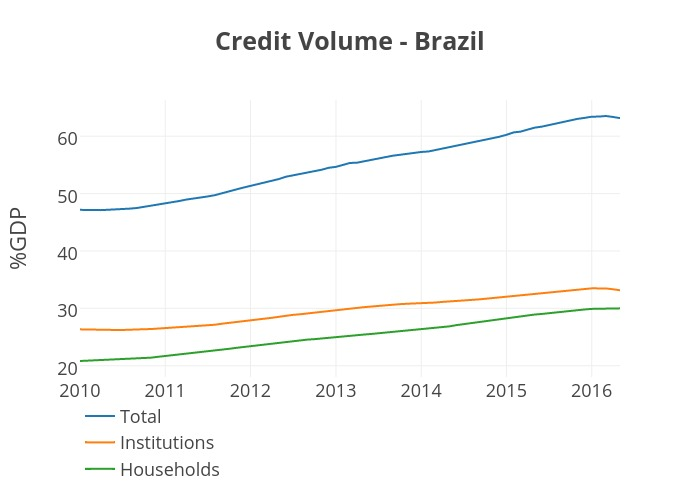
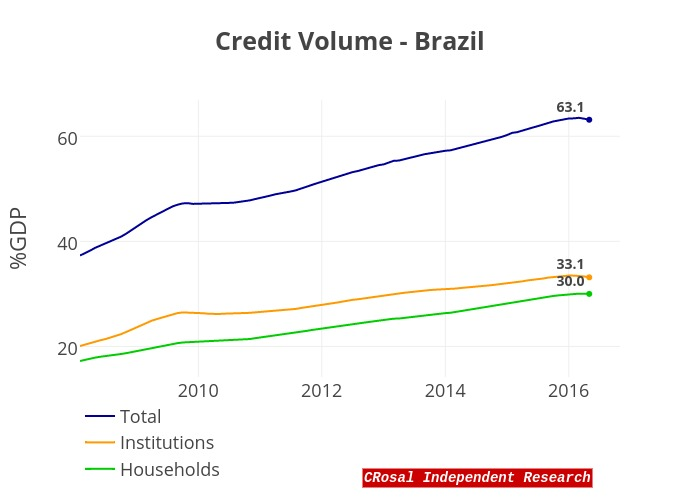
add decoration to charts

diff --git a/credit_brazil/credit_volume.py b/credit_brazil/credit_volume.py
@@ -12,22 +12,56 @@ df_12m = df.rolling(window=12).sum().dropna()
 df_gdp = df_12m.div(df_12m['GDP'], axis=0).iloc[:,1:]*10
 
 
-def credit_volume(df_gdp, new_date, title):
-    df_gdp_new = df_gdp[df_gdp.index >= new_date]
-    names = df_gdp.columns
-    ## volume
-    trace01 = go.Scatter(x=df_gdp_new.index, y=df_gdp_new['Total'],
-                         name=names[0])
-    trace02 = go.Scatter(x=df_gdp_new.index, y=df_gdp_new['Institutions'],
-                         name=names[1])
-    trace03 = go.Scatter(x=df_gdp_new.index, y=df_gdp_new['Households'],
-                         name=names[2])
-    data0 = [trace01, trace02, trace03]
-    layout0 = go.Layout(title="<b>{}</b>".format(title),
-                        yaxis=dict(title="%GDP", tickmode="auto", nticks=5),
-                        font=dict(size=18),
-                        legend=dict(x=0, y=-0.4))
-    return go.Figure(data=data0, layout=layout0)
 
-py.image.save_as(credit_volume(df_gdp, "2010-01-01", "Credit Volume - Brazil" ),
+def gen_chart(df, title, y_title, date_ini, source=True):
+    df_final = df[df.index >= date_ini]
+    col = ["#000099", " #ff9900", "#00cc00"]
+    data = []
+    for i in range(0, len(df.columns)):
+        data.append(go.Scatter(x=df_final.index, y=df_final.iloc[:, i],
+                               name=df.columns[i],
+                               marker=dict(color=col[i])))
+        data.append(go.Scatter(x=df_final.tail(1).index, y=df_final.tail(1).iloc[:, i],
+                               marker=dict(color=col[i]), showlegend=False,
+                               mode="markers+text",
+                               text=["<b>"+str(round(df_final.tail(1).iloc[:, i].values[0], 1))+"</b>"],
+                               textposition='top left',
+                               textfont=dict(size=14)))
+
+    layout = go.Layout(title="<b>{}</b>".format(title),
+                       yaxis=dict(title=y_title, tickmode="auto", nticks=5),
+                       legend=dict(x=0, y=-0.4),
+                       font=dict(size=18),
+                       annotations=[dict(x=df.tail(1).index.values[0],
+                                         y=df.max().max()*(1.1),
+                                         xref='x',
+                                         yref='y',
+                                         text="<b>"+ pd.to_datetime(df.tail(1).index).strftime("%b-%Y")[0]+"</b>",
+                                         font=dict(size=14))])
+    if source == True:
+        layout.update(dict(annotations=[dict(
+            x=.95,
+            y=-0.4,
+            xref='paper',
+            yref='paper',
+            text="<b><i>CRosal Independent Research</i></b>",
+            font=dict(size=14, family='Courier new', color="#ffffff"),
+            bgcolor='#ff8080',
+            opcity=0.5,
+            showarrow=False
+        )]))
+
+    return go.Figure(data=data, layout=layout)
+
+
+## Generate chart for households, companies and Total
+start_date = "2000-01-01"
+py.image.save_as(gen_chart(df_gdp.loc[:,['Total', "Institutions", "Households"]]
+                           , "Credit Volume - Brazil", "%GDP", start_date),
                  '../exhibits/credit_gdp_chart.jpeg', format="jpeg")
+
+## Generate chart for earmarked, non-earmarked and Total
+start_date = "2000-01-01"
+py.image.save_as(gen_chart(df_gdp.loc[:,['Total', "non-earmarked", "earmarked"]]
+                           , "Credit Volume - Brazil", "%GDP", start_date),
+                 '../exhibits/credit_gdp_earmarked.jpeg', format="jpeg")

diff --git a/credit_brazil/credit_quality.py b/credit_brazil/credit_quality.py
@@ -11,23 +11,32 @@ df = pd.read_csv("../data/credit_quality.csv", header=0, index_col=0)
 
 
 ## function to produce charts
-def gen_chart(df, title, y_title, leg, date_ini):
+def gen_chart(df, title, y_title, date_ini):
     """"""
     df_final = df[df.index >= date_ini]
     col = ["#000099", " #ff9900", "#00cc00"]
     data = []
     for i in range(0, len(df.columns)):
         data.append(go.Scatter(x=df_final.index, y=df_final.iloc[:, i],
-                    name=leg[i], marker=dict(color=col[i])))
+                               name=df.columns[i],
+                               marker=dict(color=col[i])))
         data.append(go.Scatter(x=df_final.tail(1).index, y=df_final.tail(1).iloc[:, i],
                                marker=dict(color=col[i]), showlegend=False,
                                mode="markers+text",
                                text=["<b>"+str(round(df_final.tail(1).iloc[:, i].values[0], 1))+"</b>"],
-                               textposition='top'))
+                               textposition='top',
+                               textfont=dict(size=14)))
 
     layout = go.Layout(title="<b>{}</b>".format(title),
                        yaxis=dict(title=y_title, tickmode="auto", nticks=5),
-                       legend=dict(x=0, y=-0.4))
+                       legend=dict(x=0, y=-0.4),
+                       font=dict(size=18),
+                       annotations=[dict(x=df.tail(1).index.values[0],
+                                         y=df.max().max()*(1.1),
+                                         xref='x',
+                                         yref='y',
+                                         text="<b>"+ pd.to_datetime(df.tail(1).index).strftime("%b-%Y")[0]+"</b>",
+                                         font=dict(size=14))])
     return go.Figure(data=data, layout=layout)
 
 
@@ -36,7 +45,9 @@ df_qual = df.loc[:, ['total_del', 'companies_del', 'households_del']]
 df_qual.columns = ["Total", "Companies", "Households"]
 date_qual = '2012-01-01'
 py.image.save_as(gen_chart(df_qual, "Deliquencies", "%Credit Class",
-                           df_qual.columns, date_qual ),"../exhibits/credit_quality.jpeg",format="jpeg")
+                           date_qual),
+                 "../exhibits/credit_quality.jpeg",
+                 format="jpeg")
 
 
 ## chart on interest rate
@@ -44,6 +55,6 @@ df_int = df.loc[:, ['total_juros', 'companies_juros', 'households_juros']]
 df_int.columns = ["Total", "Companies", "Households"]
 date_int = '2012-01-01'
 py.image.save_as(gen_chart(df_int, "Interest Rates", "%Credit Class",
-                           df_int.columns, date_int),
+                           date_int),
                  "../exhibits/credit_interest.jpeg",
                  format="jpeg")
